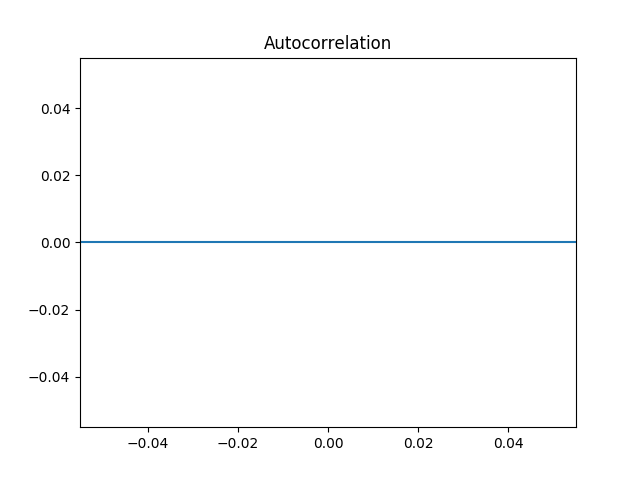
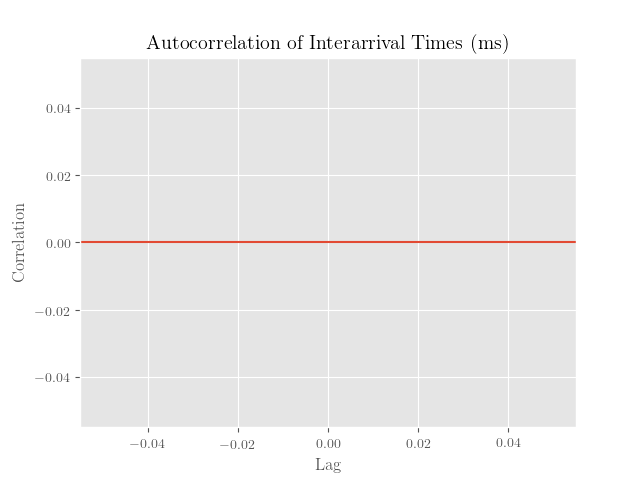
Created new plots and cleaned up code for pandas.

diff --git a/main.py b/main.py
@@ -1,24 +1,70 @@
 import csv
 import math
-from matplotlib import rc,rcParams
+from matplotlib import rc, rcParams
 import matplotlib.pyplot as plt
 from statsmodels.graphics.tsaplots import plot_acf
 import pandas as pd
 import seaborn as sns
+import warnings
+import numpy as np
 
 LATEX_FLAG = True
+USE_MS_FLAG = True
+PLOT_AUTOCORRELATION = False
+PLOT_DISTRIBUTIONS = False
+PLOT_TRANSIENT = True
+PRINT_STATS = True
+
+
+def get_transient_metrics(df):
+    mean = []
+    std = []
+    var = []
+    cv = []
+
+    for index, item in enumerate(df):
+        mean.append(df[:index].mean())
+        std.append(df[:index].std())
+        var.append(df[:index].var())
+        cv_val = float(df[:index].std / df[:index].mean())
+        cv.append(cv_val)
+
+    return np.array([mean, std, var, cv])
 
 
 def pandas_main():
     proj3_df = pd.read_csv('data/proj_3.csv', header=None)
     proj3_df.columns = ['Timestamp', 'Hostname', 'DiskNumber', 'Type', 'Offset', 'Size', 'ResponseTime']
-    start_series = proj3_df['Timestamp'] * 1e-4
-    ia_series = proj3_df['Timestamp'].diff() * 1e-4
-    service_series = proj3_df['ResponseTime'] * 1e-4
 
-    # metrics_df = pd.read_csv('data/output.csv')
-    # sns.pairplot(metrics_df[:100])
-    # plt.savefig('test.png')
+    ias_df = proj3_df[['Timestamp', 'ResponseTime']].copy()
+    ias_df['Timestamp'] = ias_df['Timestamp'].diff()
+    ias_df.columns = ['Interarrival', 'Service']
+
+    if USE_MS_FLAG:
+        multiplier = 1e-4
+        scale = '(ms)'
+    else:
+        multiplier = 1e-7
+        scale = '(s)'
+
+    ias_df *= multiplier
+
+    ia_series = ias_df['Interarrival']
+    service_series = ias_df['Service']
+
+    if PRINT_STATS:
+        print('Interarrival {}: \n'.format(scale) +
+              '   Mean..........: {}\n'.format(ia_series.mean()) +
+              '   Std. Dev......: {}\n'.format(ia_series.std()) +
+              '   Variance......: {}\n'.format(ia_series.var()) +
+              '   CV............: {}'.format(ia_series.std() / ia_series.mean()))
+        print('Service {}: \n'.format(scale) +
+              '   Mean..........: {}\n'.format(service_series.mean()) +
+              '   Std. Dev......: {}\n'.format(service_series.std()) +
+              '   Variance......: {}\n'.format(service_series.var()) +
+              '   CV............: {}'.format(service_series.std() / service_series.mean()))
+
+    f_scale = scale[1:-1]
 
     if LATEX_FLAG:
         plt.style.use('ggplot')
@@ -28,8 +74,91 @@ def pandas_main():
         pgf_with_rc_fonts = {"pgf.texsystem": "pdflatex"}
         rcParams.update(pgf_with_rc_fonts)
 
-    plot_acf(ia_series[:100], lags=10)
-    plt.savefig('output/autocorr/ia_autocorr_ms_test.png')
+    # Plot Autocorrelations
+    if PLOT_AUTOCORRELATION:
+        ia_auto_fig, ia_auto_ax = plt.subplots()
+        plot_acf(ia_series, ax=ia_auto_ax, lags=50, fft=True)
+        ia_auto_ax.set_title('Autocorrelation of Interarrival Times {}'.format(scale))
+        ia_auto_ax.set_ylabel('Correlation')
+        ia_auto_ax.set_xlabel('Lag')
+        ia_auto_fig.savefig('output/autocorr/ia_autocorr_{}.png'.format(f_scale))
+
+        s_auto_fig, s_auto_ax = plt.subplots()
+        plot_acf(service_series, ax=s_auto_ax, lags=50, fft=True)
+        s_auto_ax.set_title('Autocorrelation of Service Times {}'.format(scale))
+        s_auto_ax.set_xlabel('Lag')
+        s_auto_ax.set_ylabel('Correlation')
+        s_auto_fig.savefig('output/autocorr/s_autocorr_{}.png'.format(f_scale))
+
+    # Plot Distributions
+    if PLOT_DISTRIBUTIONS:
+        with warnings.catch_warnings():
+            bins = 100
+
+            # Histograms
+            fig, ax = plt.subplots()
+            sns.distplot(service_series, bins=bins, kde=False, ax=ax)
+            ax.set_title('Distribution of Service Times {}'.format(scale))
+            ax.set_xlabel('Service Time {}'.format(scale))
+            ax.set_ylabel('Count')
+            fig.savefig('output/histogram/service_hist_{}_{}.png'.format(bins, f_scale))
+
+            fig, ax = plt.subplots()
+            sns.distplot(ia_series, bins=bins, kde=False, ax=ax)
+            ax.set_title('Distribution of Interarrival Times {}'.format(scale))
+            ax.set_xlabel('Interarrival Time {}'.format(scale))
+            ax.set_ylabel('Count')
+            fig.savefig('output/histogram/ia_hist_{}_{}.png'.format(bins, f_scale))
+
+            fig, ax = plt.subplots()
+            sns.distplot(service_series, kde=False, ax=ax)
+            ax.set_title('Distribution of Service Times {}'.format(scale))
+            ax.set_xlabel('Service Time {}'.format(scale))
+            ax.set_ylabel('Count')
+            fig.savefig('output/histogram/service_hist_{}.png'.format(f_scale))
+
+            fig, ax = plt.subplots()
+            sns.distplot(ia_series[1:], kde=False, ax=ax)
+            ax.set_title('Distribution of Interarrival Times {}'.format(scale))
+            ax.set_xlabel('Interarrival Time {}'.format(scale))
+            ax.set_ylabel('Count')
+            fig.savefig('output/histogram/ia_hist_{}.png'.format(f_scale))
+
+            # Cumulative Distributions
+            fig, ax = plt.subplots()
+            sns.distplot(service_series, bins=bins, hist_kws=dict(cumulative=True),
+                         kde_kws=dict(cumulative=True), ax=ax)
+            ax.set_title('CDF of Service Times {}'.format(scale))
+            ax.set_xlabel('Service Time {}'.format(scale))
+            ax.set_ylabel('Cumulative Probability')
+            fig.savefig('output/cdf/service_cdf_{}_{}.png'.format(bins, f_scale))
+
+            fig, ax = plt.subplots()
+            sns.distplot(ia_series[1:], bins=bins, hist_kws=dict(cumulative=True),
+                         kde_kws=dict(cumulative=True), ax=ax)
+            ax.set_title('CDF of Interarrival Times {}'.format(scale))
+            ax.set_xlabel('Interarrival Time {}'.format(scale))
+            ax.set_ylabel('Cumulative Probability')
+            fig.savefig('output/cdf/ia_cdf_{}_{}.png'.format(bins, f_scale))
+
+            fig, ax = plt.subplots()
+            sns.distplot(service_series, hist_kws=dict(cumulative=True),
+                         kde_kws=dict(cumulative=True), ax=ax)
+            ax.set_title('CDF of Service Times {}'.format(scale))
+            ax.set_xlabel('Service Time {}'.format(scale))
+            ax.set_ylabel('Cumulative Probability')
+            fig.savefig('output/cdf/service_cdf_{}.png'.format(f_scale))
+
+            fig, ax = plt.subplots()
+            sns.distplot(ia_series[1:], hist_kws=dict(cumulative=True),
+                         kde_kws=dict(cumulative=True), ax=ax)
+            ax.set_title('CDF of Interarrival Times {}'.format(scale))
+            ax.set_xlabel('Interarrival Time {}'.format(scale))
+            ax.set_ylabel('Cumulative Probability')
+            fig.savefig('output/cdf/ia_cdf_{}.png'.format(f_scale))
+
+    if PLOT_TRANSIENT:
+        print(get_transient_metrics(ia_series[:100]))
 
 
 def csv_main():
